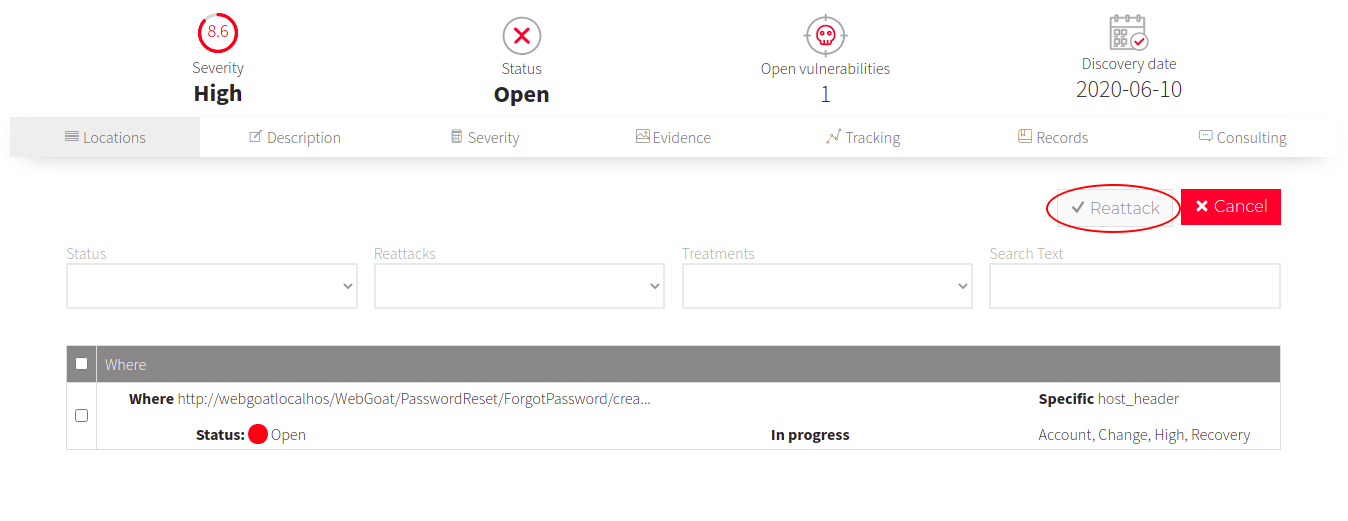
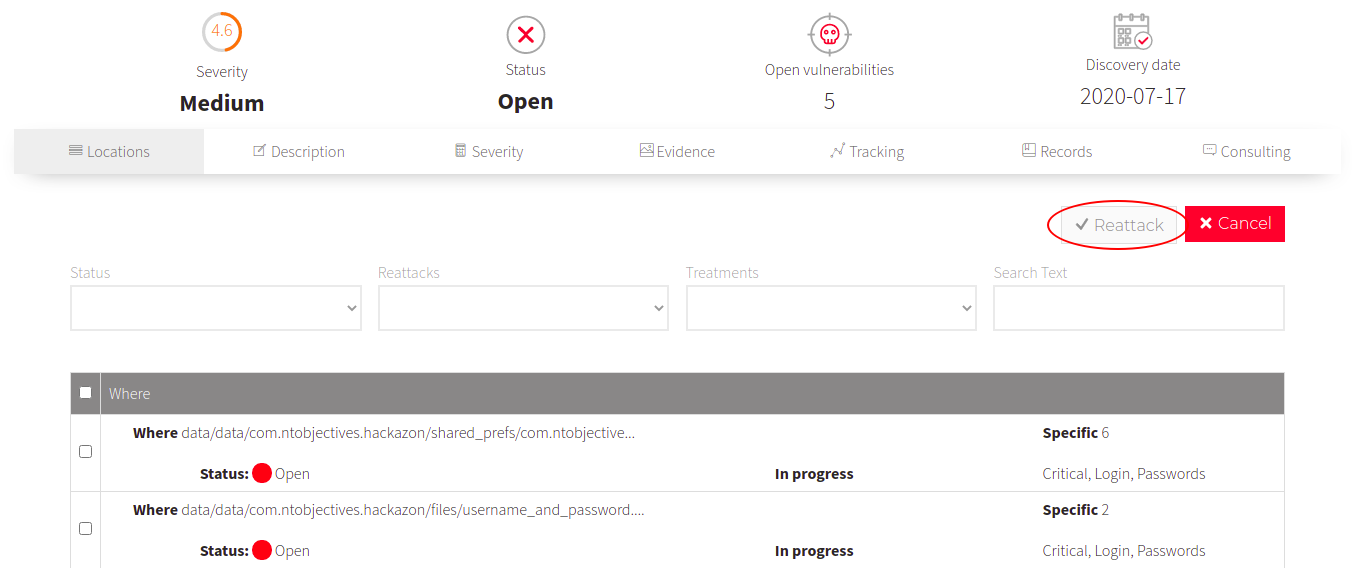
docs\refac(doc): #4607.3 modify docs
- Improve documentation for reattacks
- Update images for consistency
- Fix a link

Former-commit-id: a41b40faad4112c5fe14ce64cd73693d3aeccd4b

diff --git a/docs/src/src/pages/index.js b/docs/src/src/pages/index.js
@@ -23,7 +23,7 @@ const features = [
         Guides and information about our Machine plan
       </>
     ),
-    link: 'machine'
+    link: 'machine/app'
   },
   {
     title: 'Squad',

diff --git a/docs/src/docs/squad/reattacks.md b/docs/src/docs/squad/reattacks.md
@@ -4,24 +4,37 @@ title: Re-attack
 sidebar_label: Re-attack
 slug: /squad
 ---
-
 When you have applied a solution
 for an existing vulnerability,
 you can request a reattack
 for us to validate this.
-This can be done by clicking
-on the Reattack button.
-This button can be found
-in the **Locations** tab
-of any of your **Open** vulnerabilities,
-it will not appear if you click on
-a **Closed** vulnerability
-and any user with access to a group
-can request a reattack.
+In order to do this,
+log into your ASM account
+and click on one of your groups to access it,
+when you are inside the group,
+you will be greeted
+by a list of all the types of vulnerabilities
+that the group has.
 
-![Enabled Reattack Button](/img/web/vulnerabilities/management/reattack_button_enabled.png)
+![Group Vulnerabilities Tab](/img/web/vulnerabilities/management/vuln_tab_reattacks.png)
 
-The button will deactivate
+Now look for the type of vulnerability
+that contains the individual vulnerability
+or vulnerabilities
+that you want to request a reattack for
+and click on it.
+By doing this you will land on
+the **Locations** tab of the type of vulnerability
+that you chose
+and here you will find the **Reattack** button,
+but only if the chosen vulnerability is **Open**,
+in case it is **Closed**,
+the button will not appear.
+
+![Enabled Reattacks Button](/img/web/vulnerabilities/management/reattack_button_enabled.png)
+
+When you click on it,
+the button will deactivate
 until you select the vulnerabilities
 you want to reattack
 
